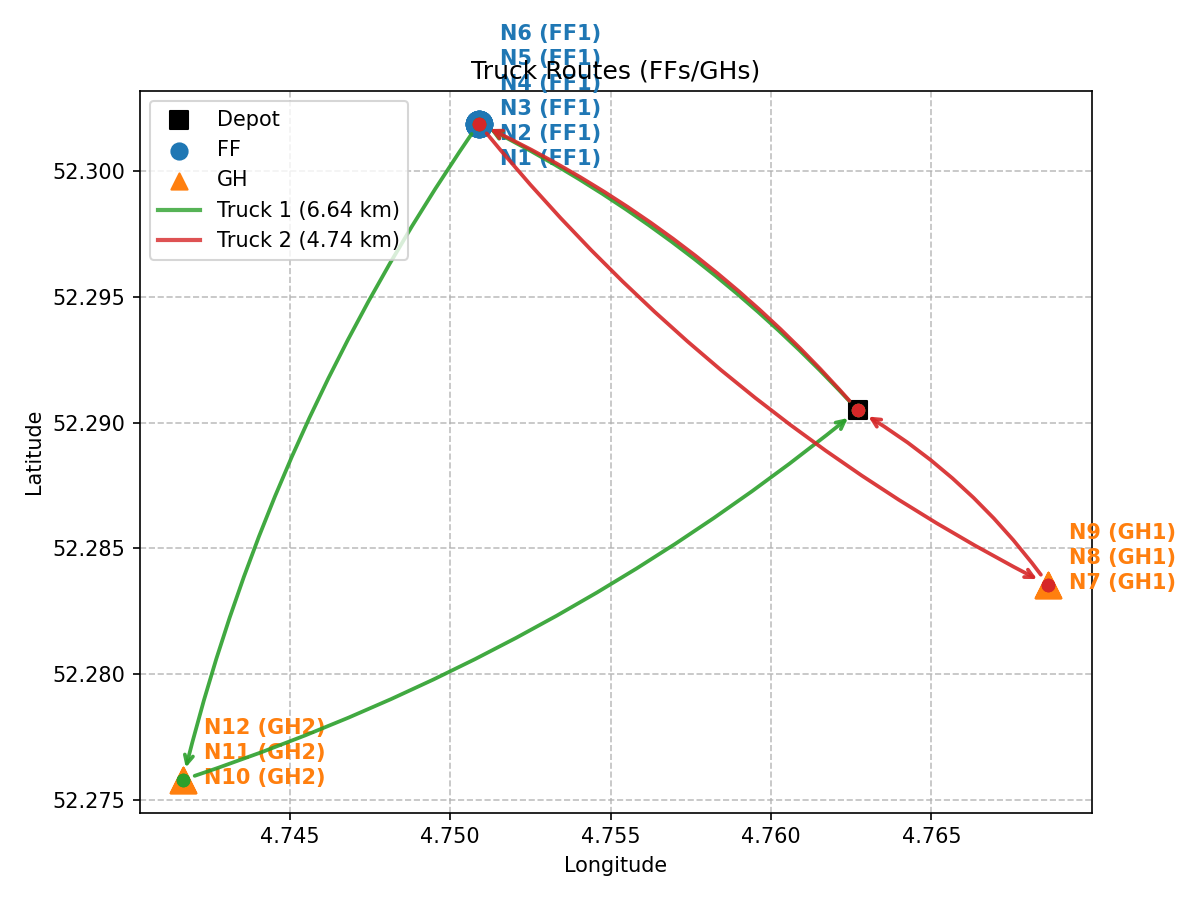
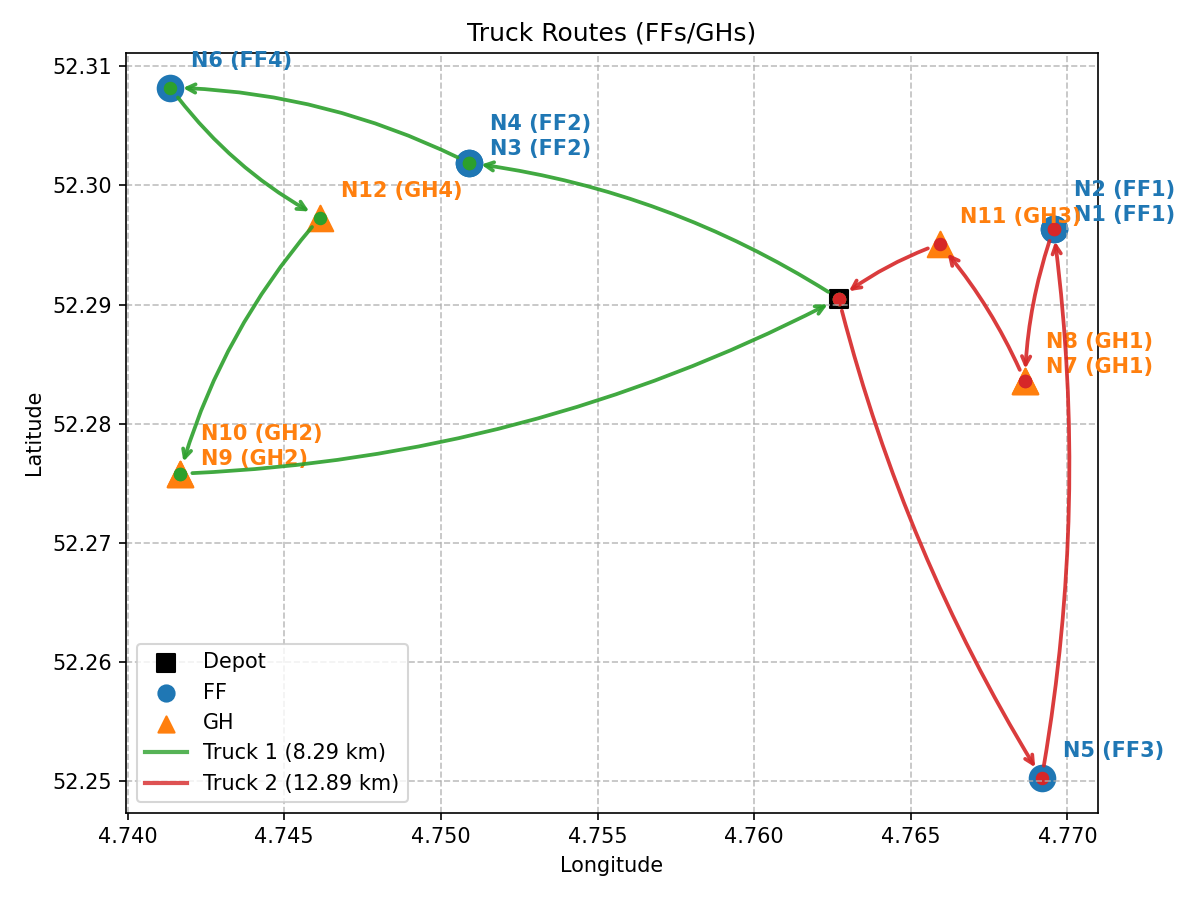
Update location selection and enhance sensitivity analysis data; modify CSV output format and update route images

diff --git a/Sensitivity_GH_FHs.py b/Sensitivity_GH_FHs.py
@@ -423,18 +423,21 @@ locs_4 = {
     'GH4': (dms_to_dd(52,17,50.289), dms_to_dd(4,44,46.132))  
 }
 
+
 LOCS_SETS = {
+    "locs_0": locs_0,
     "locs_1": locs_1,
     "locs_2": locs_2,
     "locs_3": locs_3,
     "locs_3_5": locs_3_5,
-    "locs_4": locs_4,
+    "locs_4": locs_4
 }
 
 ENABLE_PLOTS = "1"
-# SELECT YOU LOCATION SET HERE
-selected_locs_name = "locs_1" 
-locs = LOCS_SETS[selected_locs_name]
+# SELECT YOU LOCATION SET HERE #
+locs_selected="locs_4"
+locs = LOCS_SETS[locs_selected]
+
 
 
 def _facility_sort_key(name: str): #gets the number identifier for each GH and FF
@@ -452,7 +455,8 @@ gh_location_keys = gh_location_keys[:min(len(gh_location_keys), len(Nodes_D))]
 pickup_assignment_nodes = Nodes_P.copy()
 delivery_assignment_nodes = Nodes_D.copy()
 
-if selected_locs_name == "locs_3_5": #This is a special case where the nodes are distributed in a non consecutive order, such that trucks are forced to visit multiple GHs and FFs
+if locs_selected == "locs_3_5": #This is a special case where the nodes are distributed in a non consecutive order, such that trucks are forced to visit multiple GHs and FFs
+    random.seed(42)
     random.shuffle(pickup_assignment_nodes)
     random.shuffle(delivery_assignment_nodes)
 
@@ -1016,7 +1020,7 @@ else:
                 weight += W[i]; length += L[i]
         print(f"  k={k}: Weight={weight}/{Cap_W}  Length={length}/{Cap_L}")
         csv_rows.append({
-            "location_set": selected_locs_name,
+            "location_set": locs,
             "objective_value": float(m.objVal),
             "obj_travel_time": float(travel_val),
             "obj_wait_gh_pre_dock": float(wait_gh_dock_val),
